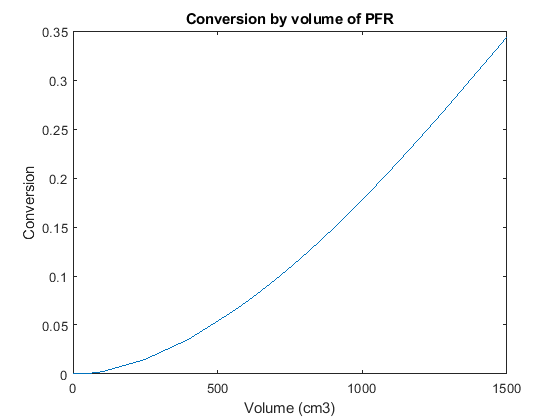
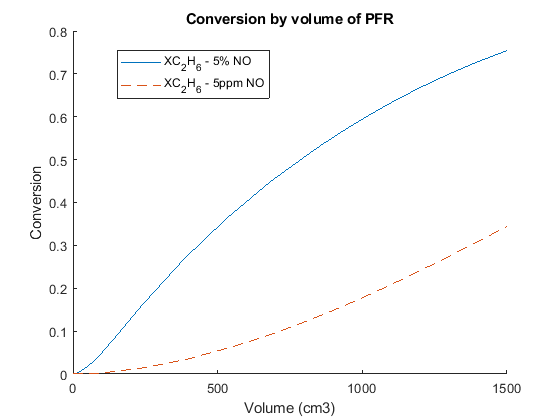
PS4 finished

diff --git a/PS4_prob1.m b/PS4_prob1.m
@@ -77,10 +77,25 @@ cH2 = c(:,7);
 %conversion calculation
 XC2H6 = (cC2H60-cC2H6)./cC2H60;
 
-plot(v_span,XC2H6);
+%doing the same with 5% NO
+yNO = 0.05;
+yC2H6 = 1 - yNO;
+FNO0 = yNO*(P/(R_atm*T))*V0;
+FC2H60 = yC2H6*(P/(R_atm*T))*V0;
+cC2H60 = FC2H60/V0;
+cNO0 = FNO0/V0;
+[v,c] = ode15s(@(v,c)func(v,c,k1,kr1,k2,k3,k4,kr4,V0),v_span,[cC2H60 cNO0 0 0 0 0 0]);
+cC2H6_p = c(:,1);
+XC2H6_p = (cC2H60-cC2H6_p)./cC2H60;
+
+hold on
+plot(v_span,XC2H6_p,"-");
+plot(v_span,XC2H6,"--");
 xlabel("Volume (cm3)");
 ylabel("Conversion");
 title("Conversion by volume of PFR");
+legend("XC_2H_6 - 5% NO","XC_2H_6 - 5ppm NO");
+hold off
 
 %reducing the concentration of NO in the feed to 5 ppm, lowers the
 %conversion oh ethane siginificantly (from what as about 80% to 35%) as expected,
